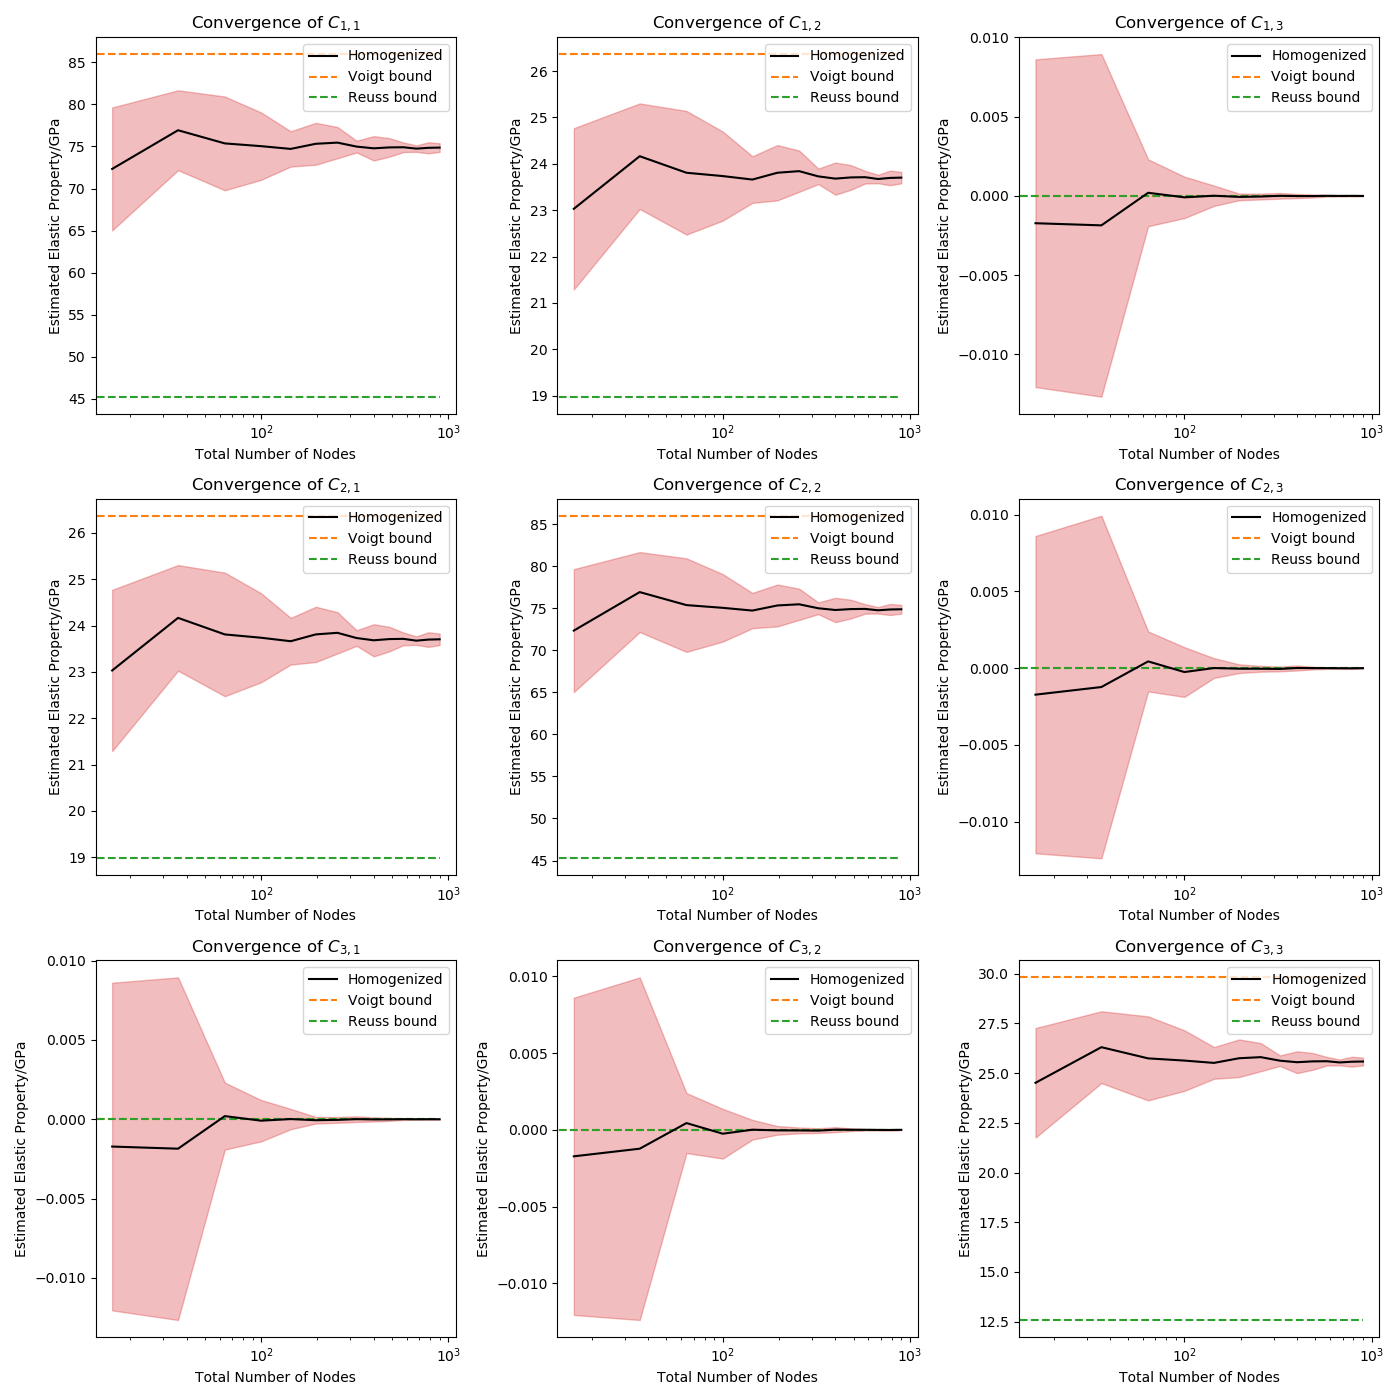
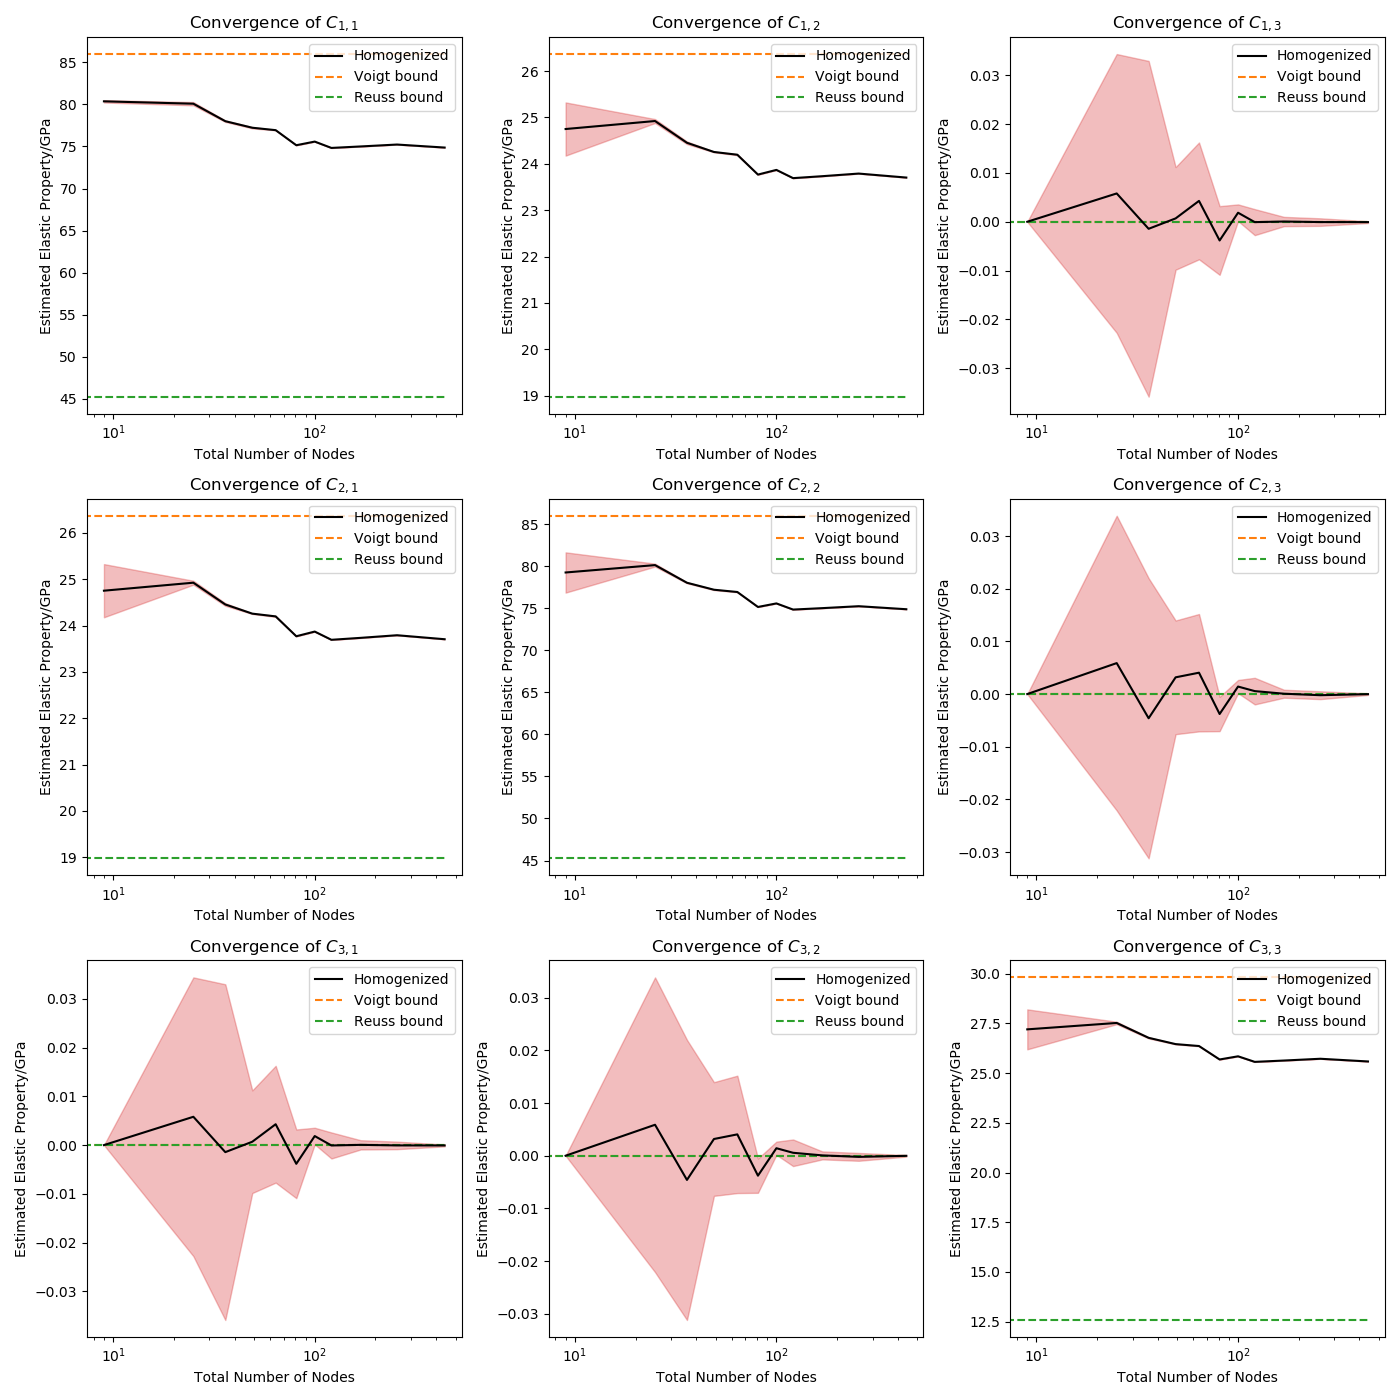
Final code push

diff --git a/PlottingUtils.py b/PlottingUtils.py
@@ -3,13 +3,14 @@ import matplotlib.pyplot as plt
 from MicroMesh import MicroMesh, MicroSolver, circles_microstructure
 from tqdm import tqdm
 from scipy.stats import multivariate_normal
+from VoigtReussSens import get_VR_sens
 
 
 def int_logscale(max_n):
     init_scale = np.logspace(np.log10(3), np.log10(max_n), num=30)
     return np.unique(init_scale.astype(int))
 
-def Converge(mat_1_params=[10E9, 0.32], mat_2_params=[80E9, 0.22], rel_conc=0.55, nxs=np.array([4, 8, 16, 32, 64, 96]), num_candidates=10):
+def Converge(mat_1_params=[10E9, 0.32], mat_2_params=[80E9, 0.22], rel_conc=0.55, nxs=np.array([3, 5, 6, 7,8,9,10,11, 13, 16, 21]), num_candidates=4):
     E_1, nu_1 = mat_1_params
     E_2, nu_2 = mat_2_params
 
@@ -30,7 +31,7 @@ def Converge(mat_1_params=[10E9, 0.32], mat_2_params=[80E9, 0.22], rel_conc=0.55
     for i in tqdm(range(len(nxs)), desc="Running through nx values"):
         nx = nxs[i]
         for j in tqdm(range(num_candidates), desc="Testing ensemble of Meshes", leave=False):
-            mesh = MicroMesh(nx, nx, E_1, E_2, nu_1, nu_2, rel_conc, micro_fun=circles_microstructure)
+            mesh = MicroMesh(nx, nx, E_1, E_2, nu_1, nu_2, rel_conc)#, micro_fun=circles_microstructure)
             solver = MicroSolver(mesh)
             temp_Cs[j, :, :] = solver.homogenize()
             E_tmp[j], nu_tmp[j] = solver.infer_props()
@@ -90,7 +91,7 @@ def plot_c_converge(Cs, C_errs, Es, E_errs, nus, nu_errs, real_concs, nnodes, ma
             ax[i, j].set_ylabel("Estimated Elastic Property/GPa")
             ax[i, j].set_xscale('log')
 
-            # if (i<2 and j<2) or (i==3 and j==3):
+            # if (i<2 and j<2) or (i==2 and j==2):
             #     ax[i, j].set_yscale("log")
             ax[i, j].legend()
     plt.tight_layout()      
@@ -136,13 +137,12 @@ def plot_c_converge(Cs, C_errs, Es, E_errs, nus, nu_errs, real_concs, nnodes, ma
     plt.tight_layout()      
     plt.savefig("E_convergence.png")
 
-def sens_analysis(n=35, steps=np.array([10E7, 80E7, 0.0032, 0.0022, 0.006]), x_opt=np.array([10E9, 80E9, 0.32, 0.22, 0.55]), candidates = 5):
+def sens_analysis(n=33, steps=np.array([10E7, 80E7, 0.0032, 0.0022, 0.0055]), x_opt=np.array([10E9, 80E9, 0.32, 0.22, 0.55]), candidates = 10):
     def central_difference(Q_1, Q_2, step):
         return (Q_2 - Q_1)/(2*step)
-
     Q_grads = np.zeros((steps.shape[0], 3, 3))
-    for c in range(candidates):
-        for i in tqdm(range(steps.shape[0]), desc="Generating Sens for parameters"):
+    for c in tqdm(range(candidates), desc="Running an Ensemble"):
+        for i in tqdm(range(steps.shape[0]), desc="Generating Sens for parameters", leave=False):
             x = x_opt
             x[i] -= steps[i]
 
@@ -157,7 +157,7 @@ def sens_analysis(n=35, steps=np.array([10E7, 80E7, 0.0032, 0.0022, 0.006]), x_o
             solver = MicroSolver(mesh)
             Q_2 = solver.homogenize()
 
-            Q_grads[i, :, :] += central_difference(Q_1, Q_2, steps[i]) * x_opt[i] # Scaled Sensitivities
+            Q_grads[i, :, :] += np.abs(central_difference(Q_1, Q_2, steps[i]) * x_opt[i]) # Absolute Scaled Sensitivities
     return Q_grads/candidates
 
 
@@ -165,18 +165,25 @@ def plot_sens(Q_grads):
     
     fig, ax = plt.subplots(3, 3, figsize=(10.0, 10.0))
 
-    Q_grads = np.abs(Q_grads.copy())/1E9
-
+    Q_grads = np.abs(Q_grads.copy()/1E9)
+    v_sens, r_sens = get_VR_sens()
+    v_sens = np.abs(v_sens/1E9)
+    r_sens = np.abs(r_sens/1E9)
+    width = 0.3
     labels=[r"E$_1$", r"E$_2$", r"$\nu_1$", r"$\nu_2$", r"$\phi_A$"]
 
     for i in range(3):
         for j in range(3):
-            ax[i, j].bar(range(Q_grads.shape[0]), Q_grads[:, i, j])
-            ax[i, j].set_xticks(range(Q_grads.shape[0]))
+            ax[i, j].bar((3.5*np.array(range(Q_grads.shape[0])))*width, v_sens[:, i, j], label="Voigt Sensitivities", width=width)
+            ax[i, j].bar((3.5*np.array(range(Q_grads.shape[0]))+1)*width, Q_grads[:, i, j], label="True Sensitivities", width=width)
+            ax[i, j].bar((3.5*np.array(range(Q_grads.shape[0]))+2)*width, r_sens[:, i, j], label="Reuss Sensitivities", width=width)
+
+            ax[i, j].set_xticks((3.5*np.array(range(Q_grads.shape[0])) + 1)*width)
             ax[i, j].set_xticklabels(labels)
             ax[i, j].set_xlabel("Parameter")
             ax[i, j].set_ylabel("Scaled Sensitivity/GPa")
             ax[i, j].set_title(f"Sensitivity of $C_{{{i + 1},{j + 1}}}$")
+            ax[i, j].legend()
     plt.tight_layout()
 
     plt.savefig("Sensitivities.png")
@@ -239,8 +246,17 @@ def plot_RVE(Cs, C_errs, num_circs, voigt_C, reuss_C):
     plt.savefig("RVE_converge.png")
 
 
+para_1 = [8E9, 0.34]
+para_2 = [48E9, 0.24]
+vol_frac = 0.65
+
+# props = Converge(para_1, para_2, vol_frac)
+# plot_c_converge(*props, para_1, para_2, vol_frac)
+
+
 props = Converge()
 plot_c_converge(*props)
+
 
 # Q_grad = sens_analysis()
 # plot_sens(Q_grad)

diff --git a/MicroMesh.py b/MicroMesh.py
@@ -13,6 +13,7 @@ from FEMSolver import FEM, gauss_eval_points, gauss_weights, J, Plane_Strain, Pl
 import numpy as np
 import matplotlib.pyplot as plt
 from tqdm import tqdm
+from Profiler import profile
 
 
 def random_microstructure(els, vol_frac, E1, nu1, **kwargs):
@@ -176,28 +177,39 @@ class MicroSolver(FEM):
 
     old_XY = self.mesh.XY
     new_XY = self.mesh.XY + disps.reshape((self.nnodes, 2))
-    plt.plot(old_XY[:, 0], old_XY[:, 1], 'sk', label='Undeformed shape')
-    plt.plot(new_XY[:, 0], new_XY[:, 1], 'sr', label='Deformed Shape')
+    #plt.plot(old_XY[:, 0], old_XY[:, 1], 'sk', label='Undeformed shape')
+    #plt.plot(new_XY[:, 0], new_XY[:, 1], 'sr', label='Deformed Shape')
 
     for el in self.mesh.ELS:
-        plt.fill(old_XY[el.nodes, 0], old_XY[el.nodes, 1], edgecolor='k', fill=False)
-        plt.fill(new_XY[el.nodes, 0], new_XY[el.nodes, 1], edgecolor='r', fill=False)
+      if (el.E == self.mesh.E1):
+        color = 'C1'
+      else:
+        color = 'C2'
+      plt.fill(old_XY[el.nodes, 0], old_XY[el.nodes, 1], edgecolor='k', color=color, alpha=0.5)
+      plt.fill(new_XY[el.nodes, 0], new_XY[el.nodes, 1], edgecolor='r', color=color, alpha=0.5)
     
     for neigh in [[0, 1], [0, -1], [1, 0], [-1, 0], [1, 1], [-1, -1], [1, -1], [-1, 1]]:
       old = old_XY + neigh
       new = new_XY + neigh
       for el in self.mesh.ELS:
-        plt.fill(old[el.nodes, 0], old[el.nodes, 1], edgecolor='k', fill=False, alpha=0.3)
-        plt.fill(new[el.nodes, 0], new[el.nodes, 1], edgecolor='r', fill=False, alpha=0.3)
+        if (el.E == self.mesh.E1):
+          color = 'C1'
+        else:
+          color = 'C2'
+        plt.fill(old[el.nodes, 0], old[el.nodes, 1], edgecolor='k', color=color, alpha=0.15)
+        plt.fill(new[el.nodes, 0], new[el.nodes, 1], edgecolor='r', color=color, alpha=0.15)
+    plt.plot([0, 1, 1, 0, 0], [0, 0, 1, 1, 0], color='k')
 
     # Set chart title.
-    plt.title("Mesh Deformation under loading", fontsize=19)
+    #plt.title("Mesh Deformation under loading", fontsize=19)
     # Set x axis label.
     plt.xlabel("$x_1$", fontsize=10)
     # Set y axis label.
     plt.ylabel("$x_2$", fontsize=10)
 
     plt.legend()
+    plt.show()
+    #plt.savefig("Periodic_Deformation.png")
 
   def r_vec(self, eps):
     r_vec = np.zeros(2*self.mesh.nnodes)
@@ -251,6 +263,7 @@ class MicroSolver(FEM):
       self.mesh.forces = self.r_vec(eps*mag)
       self.solve()
       C[:, i] = self.sigma(eps*mag)/mag
+      #self.show_deformation(3E2)
 
       self.C = C
     return C
@@ -286,17 +299,31 @@ class MicroSolver(FEM):
 
 
 
-# num_circ = 4
+# # # # # num_circ = 4
 
 # mat_1_params=[10E9, 0.32]
 # mat_2_params=[80E9, 0.22]
-# rel_conc=0.55
+# # mat_1_params = [10E9, 0.36]
+# # mat_2_params = [50E9, 0.26]
+# rel_conc = 0.55
+# #rel_conc = 0.7
 
 # E_1, nu_1 = mat_1_params
 # E_2, nu_2 = mat_2_params
+# # rel_conc=4/9
 
+# # # E_1, nu_1 = [100, 0.2]
+# # # E_2, nu_2 = [300, 0.1]
+# # # n_cands = 9
+# # # Cs = np.zeros((n_cands, 3, 3))
+# # # el_1S = np.array([0, 4, 6, 7])
+# # # el_2s = np.array([1, 2, 3, 5, 8])
 
-# mesh = MicroMesh(96, 96, E_1, E_2, nu_1, nu_2, rel_conc, micro_fun=circles_microstructure)
-# mesh.plot()
+# mesh = MicroMesh(23, 23, E_1, E_2, nu_1, nu_2, rel_conc)
+
 # solver = MicroSolver(mesh)
+# #mesh.plot()
 # print(solver.homogenize())
+# solver.show_deformation(5E2)
+#print(solver.elasticity(E_2, nu_2))
+# #solver.show_periodic_deformation()

diff --git a/VoigtReussSens.py b/VoigtReussSens.py
@@ -1,0 +1,48 @@
+import sympy as sy
+import numpy as np
+
+def Plane_Strain(E, nu):
+    '''C matrix in the case of plane strain'''
+    const = E/((1.0-2*nu)/(1 + nu))
+    C = sy.Matrix([[1.0 - nu, nu, 0.0], [nu, 1.0-nu, 0.0], [0.0, 0.0, 0.5*(1.0-2 * nu)]])
+    return const*C
+
+def Voigt(C_1, C_2, frac):
+
+    return frac * C_1 + (1-frac) * C_2
+
+def Reuss(C_1, C_2, frac):
+    res = sy.Matrix([[1/(frac / C_1[i, j] + (1-frac) / C_2[i, j]) for i in range(3)] for j in range(3)])
+    res[2, 0] = 0; res[2, 1] = 0
+    res[0, 2] = 0; res[1, 2] = 0
+    return res
+
+
+def get_VR_sens():
+    E1, nu1, E2, nu2, vol_frac = sy.symbols("E1 nu1 E2 nu2 phi")
+
+    ps1 = Plane_Strain(E1, nu1)
+
+    ps2 = Plane_Strain(E2, nu2)
+
+
+    v = Voigt(ps1, ps2, vol_frac)
+    r = Reuss(ps1, ps2, vol_frac)
+
+
+    mat_1_params=[10E9, 0.32]
+    mat_2_params=[80E9, 0.22]
+    rel_conc = 0.55
+
+    E_1, nu_1 = mat_1_params
+    E_2, nu_2 = mat_2_params
+
+    vars = [E1, E2, nu1, nu2, vol_frac]
+    var_vals = [E_1, E_2, nu_1, nu_2, rel_conc]
+    v_diffs = np.array([np.array(v.diff(var).subs(E1, E_1).subs(E2, E_2).subs(nu1, nu_1).subs(nu2, nu_2).subs(vol_frac, rel_conc)) for var in [E1, E2, nu1, nu2, vol_frac]])
+    r_diffs = np.array([np.array(r.diff(var).subs(E1, E_1).subs(E2, E_2).subs(nu1, nu_1).subs(nu2, nu_2).subs(vol_frac, rel_conc)) for var in [E1, E2, nu1, nu2, vol_frac]])
+
+    for i in range(5):
+        v_diffs[i] *= var_vals[i]
+        r_diffs[i] *= var_vals[i]
+    return v_diffs, r_diffs

diff --git a/FEMSolver.py b/FEMSolver.py
@@ -132,7 +132,7 @@ class FEM():
                 dN = self.dN(xi, eta)
 
                 # Real-space Jacobian
-                #Jmat = dN @ corners
+                Jmat = dN @ corners
                 #Jmat=J(xi, eta)
 
                 # Construct elemental k
